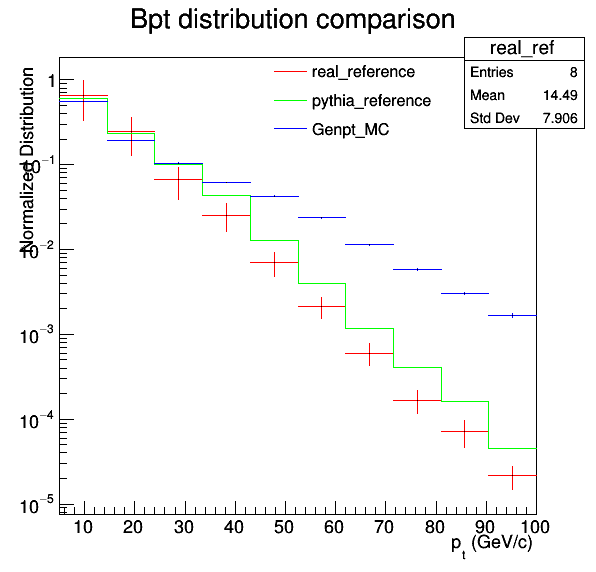
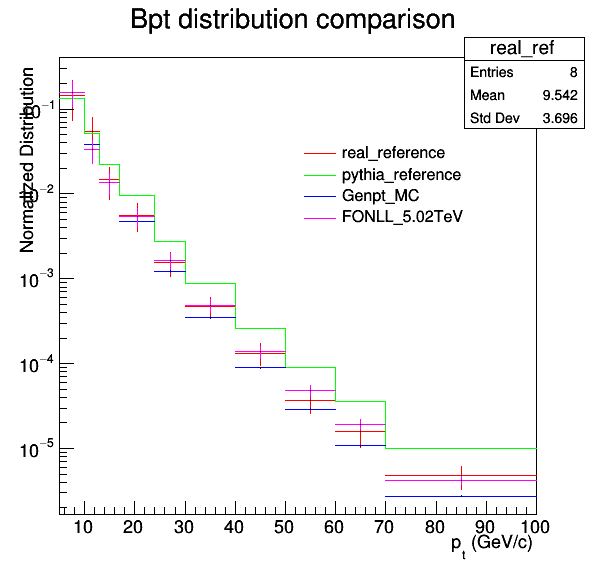
Bpt comparison

diff --git a/ppref_real.C b/ppref_real.C
@@ -46,10 +46,10 @@ void ppref_real()
       //dsigmadpt_real_5p02[i]=dsigmadpt_real[i]*dsigmadpt_FONLL_5p02[i]/dsigmadpt_FONLL[i];
     }
   
-  TH1F* d_r = new TH1F("d_r","",nBins,ptBins[0],ptBins[nBins]);
-  TH1F* d_f = new TH1F("d_f","",nBins,ptBins[0],ptBins[nBins]);
-  TH1F* d_f5 = new TH1F("d_f5","",nBins,ptBins[0],ptBins[nBins]);
-  TH1F* pythia_ref = new TH1F("pythia_ref","",nBins,ptBins[0],ptBins[nBins]);
+  TH1F* d_r = new TH1F("d_r","",nBins,ptBins);
+  TH1F* d_f = new TH1F("d_f","",nBins,ptBins);
+  TH1F* d_f5 = new TH1F("d_f5","",nBins,ptBins);
+  TH1F* pythia_ref = new TH1F("pythia_ref","",nBins,ptBins);
 
   for(i=0;i<nBins;i++)
     {
@@ -64,6 +64,11 @@ void ppref_real()
       pythia_ref->SetBinError(i+1,e_pythia[i]);
     }
   
+  d_r->Sumw2();
+  d_f->Sumw2();
+  d_f5->Sumw2();
+  pythia_ref->Sumw2();
+  
   TH1F* real_ref = (TH1F*) d_r->Clone("real_ref");
   real_ref->Sumw2();
   real_ref->Multiply(d_f5);
@@ -74,33 +79,42 @@ void ppref_real()
   real_ref->GetYaxis()->SetTitle("Normalized Distribution");
   real_ref->GetYaxis()->SetTitleOffset(1.0);
   
-  float norm;
-  norm = real_ref->Integral();
-  real_ref->Scale(1.0/norm);
-  norm = pythia_ref->Integral();
-  pythia_ref->Scale(1.0/norm);
+  real_ref->Scale(1.0/real_ref->Integral("width"));
+  pythia_ref->Scale(1.0/pythia_ref->Integral("width"));
+  d_f5->Scale(1.0/d_f5->Integral("width"));
+  //float norm;
+  //norm = real_ref->Integral("width");
+  //real_ref->Scale(1.0/norm);
+  //norm = pythia_ref->Integral("width");
+  //pythia_ref->Scale(1.0/norm);
+  //norm = d_f5->Integral("width");
+  //d_f5->Scale(1.0/norm);
 
   TFile* inputMC = new TFile(inputmcname.Data());
   TTree* Gen = (TTree*) inputMC->Get("Bfinder/ntGen");
-  TH1F* Genpt = new TH1F("Genpt","",nBins,ptBins[0],ptBins[nBins]);
-  Gen->Project("Genpt","Gpt","(GisSignal==1)&&(GcollisionId==0)&&((Gpt>5&&Gpt<10&&TMath::Abs(Gy)<2.4)||(Gpt>10&&Gpt<17&&TMath::Abs(Gy)<1.45)||(Gpt>17&&Gpt<100&&TMath::Abs(Gy)<2.1))");
-  
-  norm = Genpt->Integral();
-  Genpt->Scale(1.0/norm);
+  Gen->AddFriend("hiEvtAnalyzer/HiTree");
+  TString weightgen = "pthatweight";
+  TString Bselection = "(GisSignal==1)&&(GcollisionId==0)&&((Gpt>5&&Gpt<10&&TMath::Abs(Gy)<2.4)||(Gpt>10&&Gpt<17&&TMath::Abs(Gy)<1.45)||(Gpt>17&&Gpt<100&&TMath::Abs(Gy)<2.1))";
+  TH1F* Genpt = new TH1F("Genpt","",nBins,ptBins);
+  Gen->Project("Genpt","Gpt",TCut(weightgen)*TCut(Bselection));
+  Genpt->Scale(1.0/Genpt->Integral(),"width");
+  //divideBinWidth(Genpt);
+  //norm = Genpt->Integral();
+  //Genpt->Scale(1.0/norm,"width");
   
   TH1F* Ratiopt = (TH1F*) real_ref->Clone("Ratiopt");
   Ratiopt->Sumw2();
   Ratiopt->Divide(Genpt);
   
   TF1 *f = new TF1("f","[0]+[1]*x+[2]*x*x+[3]*x*x*x",5,100);
-  f->SetParameters(1,0.1,0.1);
+  f->SetParameters(1,0.1,0.1,0.1);
   f->SetParLimits(0,0,10);
   f->SetParLimits(1,-10,10);
   f->SetParLimits(2,-10,10);
   f->SetParLimits(3,-10,10);
-
+  
   Ratiopt->Fit("f");
-
+  
   printf("Bpt weight function: %f+%f*Bpt+%f*Bpt*Bpt+%f*Bpt*Bpt*Bpt\n",f->GetParameter(0),f->GetParameter(1),f->GetParameter(2),f->GetParameter(3));
   
   Ratiopt->SetTitle("Ratio between Real data and Genpt");
@@ -113,11 +127,13 @@ void ppref_real()
   real_ref->SetLineColor(kRed);
   pythia_ref->SetLineColor(kGreen);
   Genpt->SetLineColor(kBlue);
+  d_f5->SetLineColor(kMagenta);
   real_ref->Draw();
   pythia_ref->Draw("same");
   Genpt->Draw("same");
+  d_f5->Draw("same");
 
-  TLegend *leg = new TLegend(0.45,0.75,0.75,0.90,NULL,"brNDC");
+  TLegend *leg = new TLegend(0.50,0.60,0.80,0.75,NULL,"brNDC");
   leg->SetBorderSize(0);
   leg->SetTextSize(0.03);
   leg->SetTextFont(42);
@@ -125,8 +141,10 @@ void ppref_real()
   leg->AddEntry(real_ref,"real_reference","l");
   leg->AddEntry(pythia_ref,"pythia_reference","l");
   leg->AddEntry(Genpt,"Genpt_MC","l");
+  leg->AddEntry(d_f5,"FONLL_5.02TeV","l");
   leg->Draw("same");
 
+  //c1->RedrawAxis();
   c1->SetLogy();
   c1->SaveAs("Bpt_comparison.png");
 
